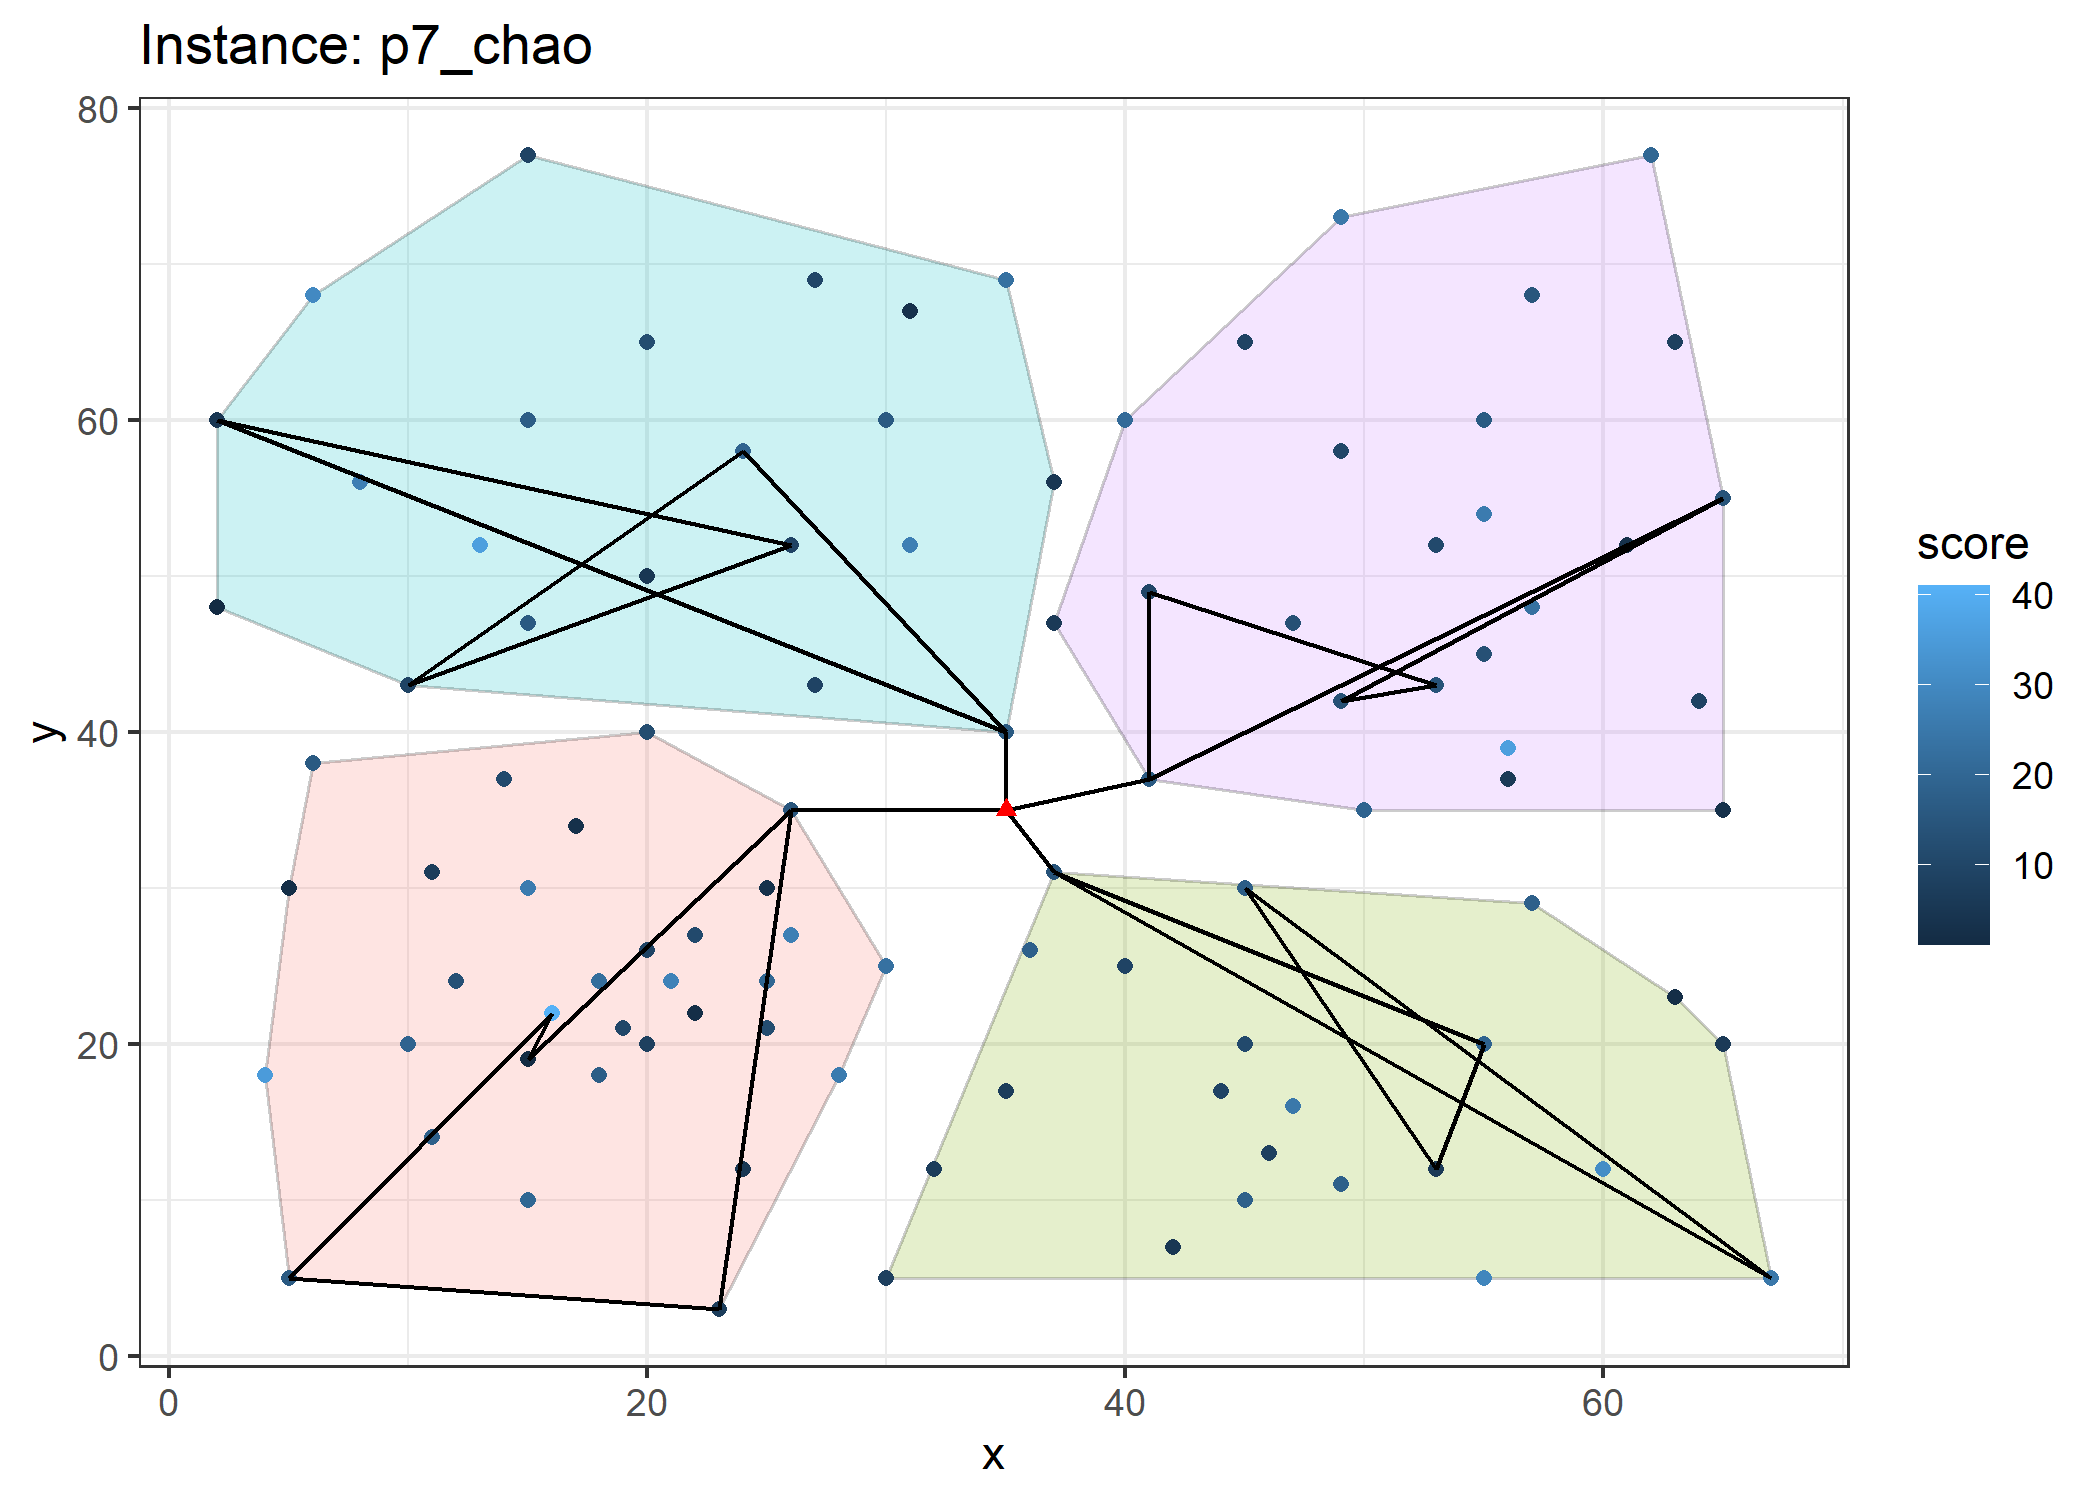
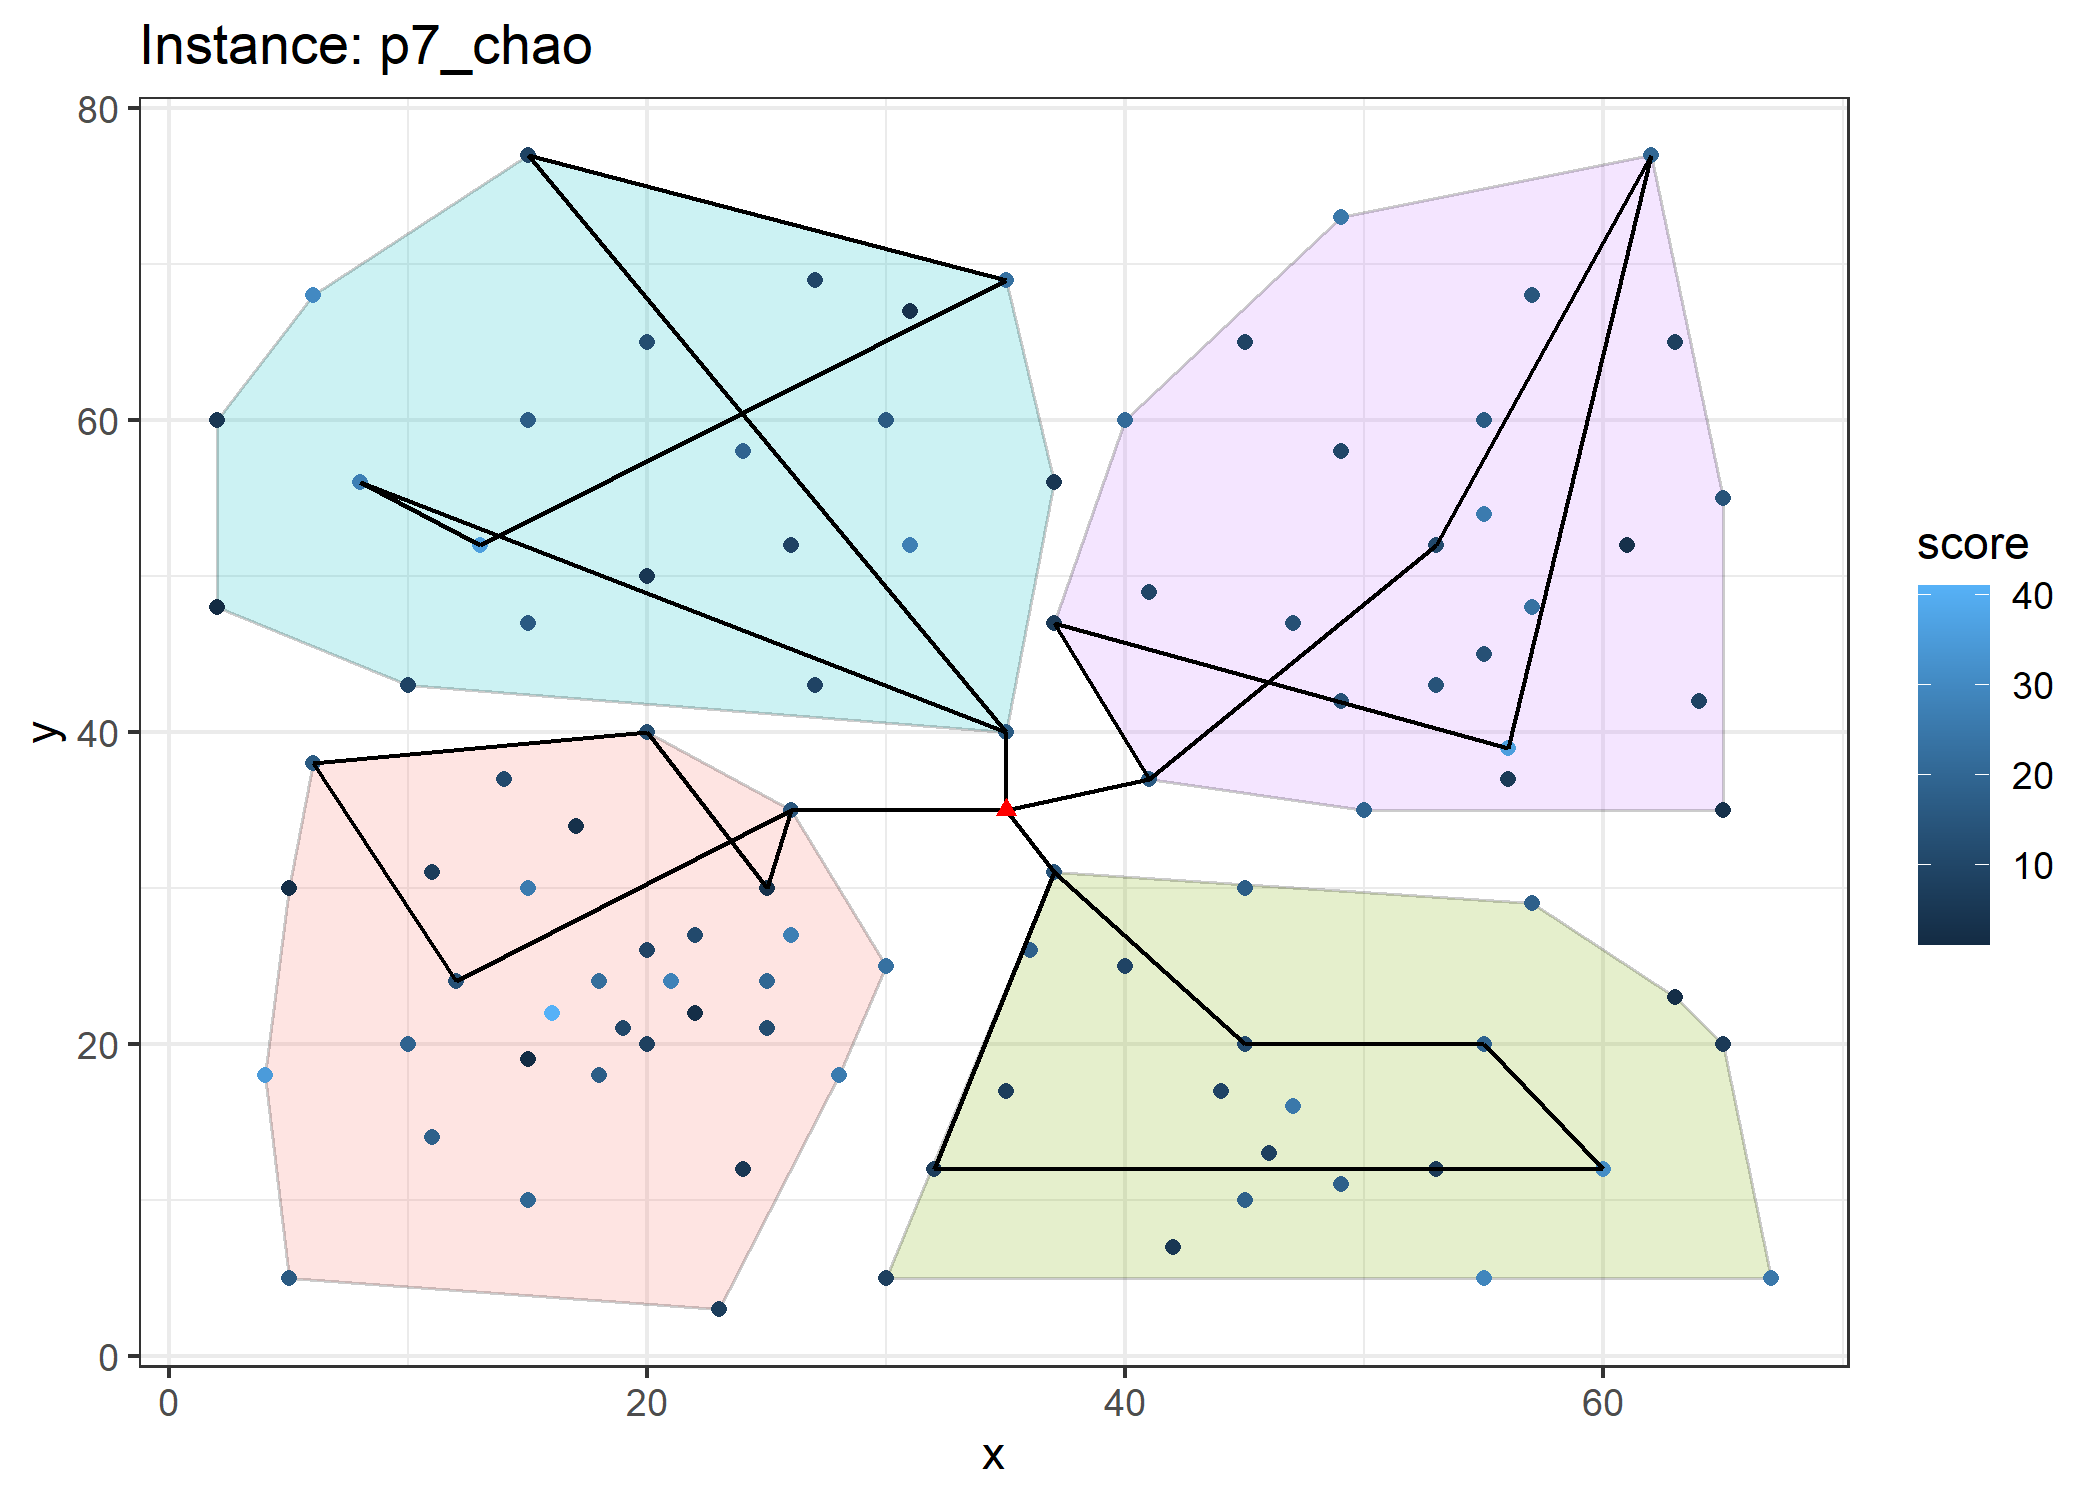
update readme

diff --git a/README.md b/README.md
@@ -41,7 +41,8 @@ length(test_instances)
 ```
 
 ``` r
-plot(test_instances$p7_chao, delaunay = F, voronoi = F)
+inst <- test_instances$p7_chao 
+plot(inst, delaunay = F, voronoi = F)
 ```
 
 <img src="man/figures/README-plot_test_instance-1.png" width="100%" />
@@ -53,7 +54,7 @@ a number of disjoint sets (disregarding the source node).
 
 ``` r
 clust <- clustering(
-  inst = test_instances$p7_chao,
+  inst = inst,
   k = 4,
   cluster_method = "pam"
 )
@@ -75,6 +76,8 @@ Given the an instance with clusters we are able to find a set of routes
 using the `routing` function.
 
 ``` r
+set.seed(6)
+
 rout <- routing(
   clust = clust,
   routing_method = "random"
